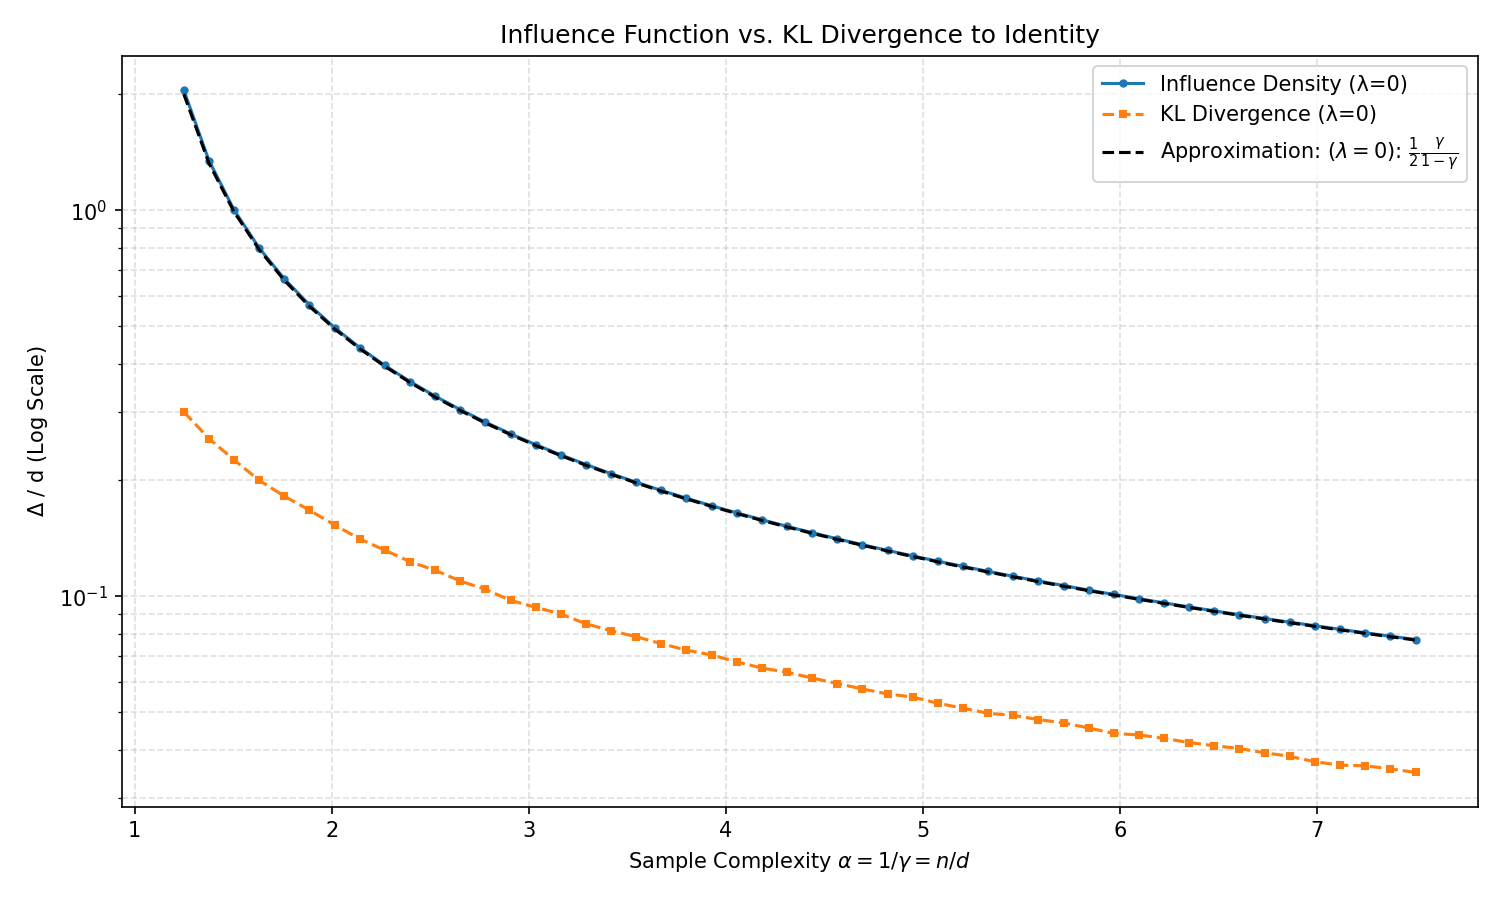
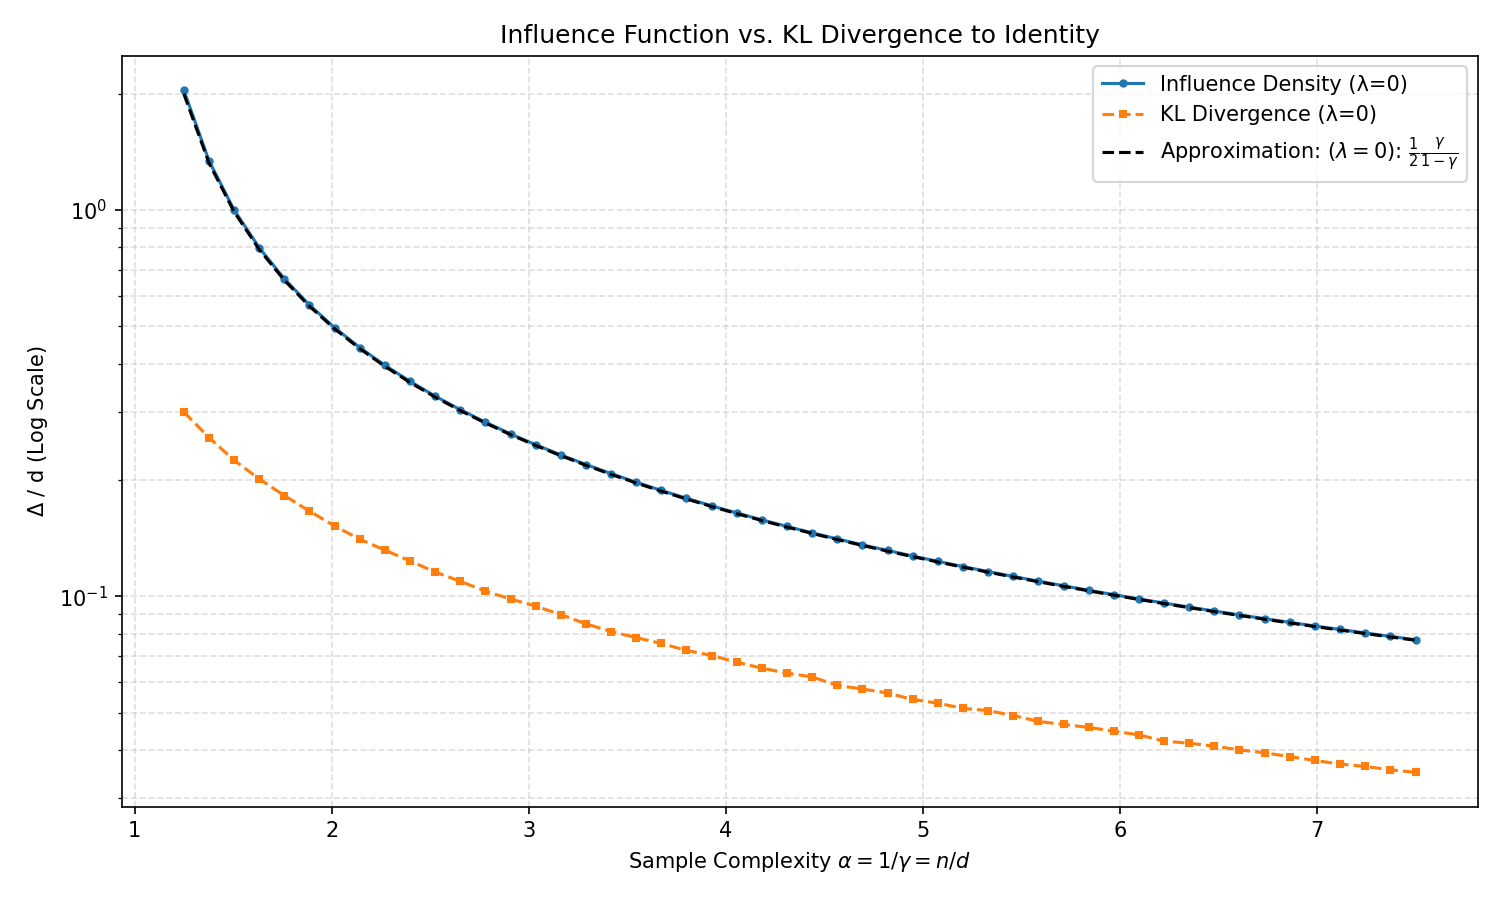
new plots

Changed region(s): [[0.644, 0.7778, 0.7053, 0.8089], [0.7667, 0.8089, 0.7973, 0.84], [0.644, 0.6222, 0.6747, 0.6533]]

diff --git a/week_9/sandwich.py b/week_9/sandwich.py
@@ -1,0 +1,95 @@
+import numpy as np
+import matplotlib.pyplot as plt
+
+# --- Configurazione ---
+d = 400
+n_values = np.linspace(300, 3000, 50).astype(int)
+alphas = n_values / d  # n/d
+reg_list = [0.001, 0.01]
+
+avg_delta_vals_list = []
+kl_id_vals_list = []
+c_bound_vals_list = [] # Updated list for the rigorous C_gamma bound
+
+print("Generazione dati e calcolo dei bound rigorosi...")
+
+for lam in reg_list:
+    avg_delta_vals = []
+    kl_id_vals = []
+    c_bound_vals = []
+    
+    for n in n_values:
+        gamma = d / n # Aspect ratio gamma
+        
+        # 1. Generazione dati
+        X = np.random.randn(n, d)
+        
+        # 2. Covarianza empirica regolarizzata
+        Sigma_n = (X.T @ X) / n + lam * np.eye(d)
+        
+        # 3. Influence Function Media (Riscalata 1/d)
+        V = np.linalg.solve(Sigma_n, X.T)
+        h_vec = np.sum(X * V.T, axis=1) / n
+        r = n / (n - 1)
+        
+        term_det_inf = 0.5 * (np.log(1 - h_vec) + d * np.log(r))
+        term_quad_inf = 0.5 * (h_vec * (n * h_vec - 1)) / (1 - h_vec)
+        
+        avg_delta = np.mean(term_det_inf + term_quad_inf) / d
+        avg_delta_vals.append(avg_delta)
+        
+        # 4. KL Divergenza SHIFTATA (Correzione applicata)
+        trace_sig = np.trace(Sigma_n)
+        _, logdet_sig = np.linalg.slogdet(Sigma_n)
+        logdet_sigma = d * np.log(1 + lam)
+        
+        kl_id = 0.5 * ( (1/d) * (1+lam)**(-1) * trace_sig - 1 + (1/d)*logdet_sigma - (1/d) * logdet_sig )
+        kl_id_vals.append(kl_id)
+        
+        # 5. Calcolo del Lower Bound Rigoroso (C_gamma * Delta/d)
+        # Bordo inferiore dello spettro di Marchenko-Pastur
+        lambda_min = (1 - np.sqrt(gamma))**2 if gamma <= 1 else 0.0
+        
+        # Autovalore riscalato minimo
+        nu_min = (lambda_min + lam) / (1 + lam)
+        
+        # Costante di bound C_gamma (Rigorosa)
+        if np.isclose(nu_min, 1.0):
+            C_gamma = 0.5 # Il limite asintotico esatto di Taylor
+        else:
+            num = nu_min * (nu_min - 1 - np.log(nu_min))
+            den = (nu_min - 1)**2
+            C_gamma = num / den
+            
+        c_bound_vals.append(C_gamma * avg_delta)
+        
+    avg_delta_vals_list.append(avg_delta_vals)
+    kl_id_vals_list.append(kl_id_vals)
+    c_bound_vals_list.append(c_bound_vals)
+
+# --- Plot ---
+plt.figure(figsize=(10, 6))
+
+for i, lam in enumerate(reg_list):
+    color = plt.cm.tab10(i)
+    
+    # Plot delle curve principali
+    plt.plot(alphas, avg_delta_vals_list[i], 'o-', label=f'Influence Density $\\bar{{\\Delta}}/d$ (λ={lam})', color=color, markersize=4)
+    plt.plot(alphas, kl_id_vals_list[i], 's--', label=f'KL Divergence $\\mathcal{{D}}$ (λ={lam})', color=color, markersize=4)
+    
+    # Plot del lower bound analitico rigoroso
+    plt.plot(alphas, c_bound_vals_list[i], '^:', label=f'Lower Bound $C_\\gamma \\frac{{\\bar{{\\Delta}}}}{{d}}$ (λ={lam})', color=color, markersize=4)
+    
+    # Shading dell'area del teorema "Sandwich"
+    plt.fill_between(alphas, c_bound_vals_list[i], avg_delta_vals_list[i], color=color, alpha=0.1)
+
+plt.yscale('log')
+plt.xlabel(r'Sample Complexity $\alpha = n/d$')
+plt.ylabel('Value / d (Log Scale)')
+plt.title('Rigorous Sandwich Bound: KL Divergence vs. Influence Density')
+plt.legend()
+plt.grid(True, which="both", linestyle='--', alpha=0.4)
+
+plt.tight_layout()
+plt.savefig('/home/ceci/Thesis/Plots/asymptotic_sandwich_bound_rigorous.png', dpi=300)
+print("Plot salvato in: /home/ceci/Thesis/Plots/asymptotic_sandwich_bound_rigorous.png")

diff --git a/week_8/lambda_shifted.py b/week_8/lambda_shifted.py
@@ -1,0 +1,76 @@
+import numpy as np
+import matplotlib.pyplot as plt
+import imageio.v2 as imageio
+import os
+
+# --- Configurazione ---
+d = 400
+n_values = np.linspace(300, 3000, 40).astype(int) # Evitiamo n < d per stabilità con lambda piccoli
+alphas = n_values / d 
+# Generiamo molti lambda per una GIF fluida (es. scala logaritmica)
+reg_list = np.logspace(-3, -0.1, 100) 
+
+filenames = []
+
+print("Generazione frame per la GIF...")
+
+for i, lam in enumerate(reg_list):
+    avg_delta_vals = []
+    kl_id_vals = []
+    
+    for n in n_values:
+        # 1. Generazione dati
+        X = np.random.randn(n, d)
+        
+        # 2. Covarianza empirica regolarizzata
+        Sigma_n = (X.T @ X) / n + lam * np.eye(d)
+        
+        # 3. Influence Function Media (Riscalata 1/d)
+        V = np.linalg.solve(Sigma_n, X.T)
+        h_vec = np.sum(X * V.T, axis=1) / n
+        r = n / (n - 1)
+        
+        term_det_inf = 0.5 * (np.log(1 - h_vec) + d * np.log(r))
+        term_quad_inf = 0.5 * (h_vec * (n * h_vec - 1)) / (1 - h_vec)
+        
+        avg_delta = np.mean(term_det_inf + term_quad_inf) / d
+        avg_delta_vals.append(avg_delta)
+        
+        # 4. KL Divergenza (Sigma_n || Id) riscalata 1/d
+        trace_sig = np.trace(Sigma_n)
+        _, logdet_sig = np.linalg.slogdet(Sigma_n)
+        logdet_sigma = np.linalg.slogdet((1+lam) * np.eye(d))[1] # logdet di (1+lambda)*I è d*log(1+lambda)
+        # Fixed the minus sign to a plus sign: (1+lam)**(-1)
+        kl_id = 0.5 * ( (1/d) * (1+lam)**(-1) * trace_sig - 1 + (1/d)*logdet_sigma - (1/d) * logdet_sig )
+        kl_id_vals.append(kl_id)
+
+    # --- Plot del Frame ---
+    plt.figure(figsize=(10, 6))
+    plt.plot(alphas, avg_delta_vals, 'o-', label=f'Influence Density $\\bar{{\Delta}}/d$', color='tab:blue')
+    plt.plot(alphas, kl_id_vals, 's--', label=f'KL Divergence $\\mathcal{{D}}$', color='orange')
+    
+    plt.yscale('log')
+    plt.ylim(1e-3, 2) # Fissiamo l'asse Y per evitare che "salti" nella GIF
+    plt.xlabel(r'Sample Complexity $\alpha = n/d$')
+    plt.ylabel('Value / d (Log Scale)')
+    plt.title(f'Influence vs KL Divergence (Regularization $\lambda = {lam:.4f}$)')
+    plt.legend()
+    plt.grid(True, which="both", linestyle='--', alpha=0.4)
+    
+    # Salvataggio frame temporaneo
+    filename = f'frame_{i}.png'
+    plt.savefig(filename, dpi=150)
+    filenames.append(filename)
+    plt.close()
+
+# --- Creazione GIF ---
+with imageio.get_writer('/home/ceci/Thesis/Plots/influence_evolution_shifted.gif', mode='I', duration=0.5) as writer:
+    for filename in filenames:
+        image = imageio.imread(filename)
+        writer.append_data(image)
+
+# Pulizia file temporanei
+for filename in filenames:
+    os.remove(filename)
+
+print("GIF creata con successo: influence_evolution.gif")
